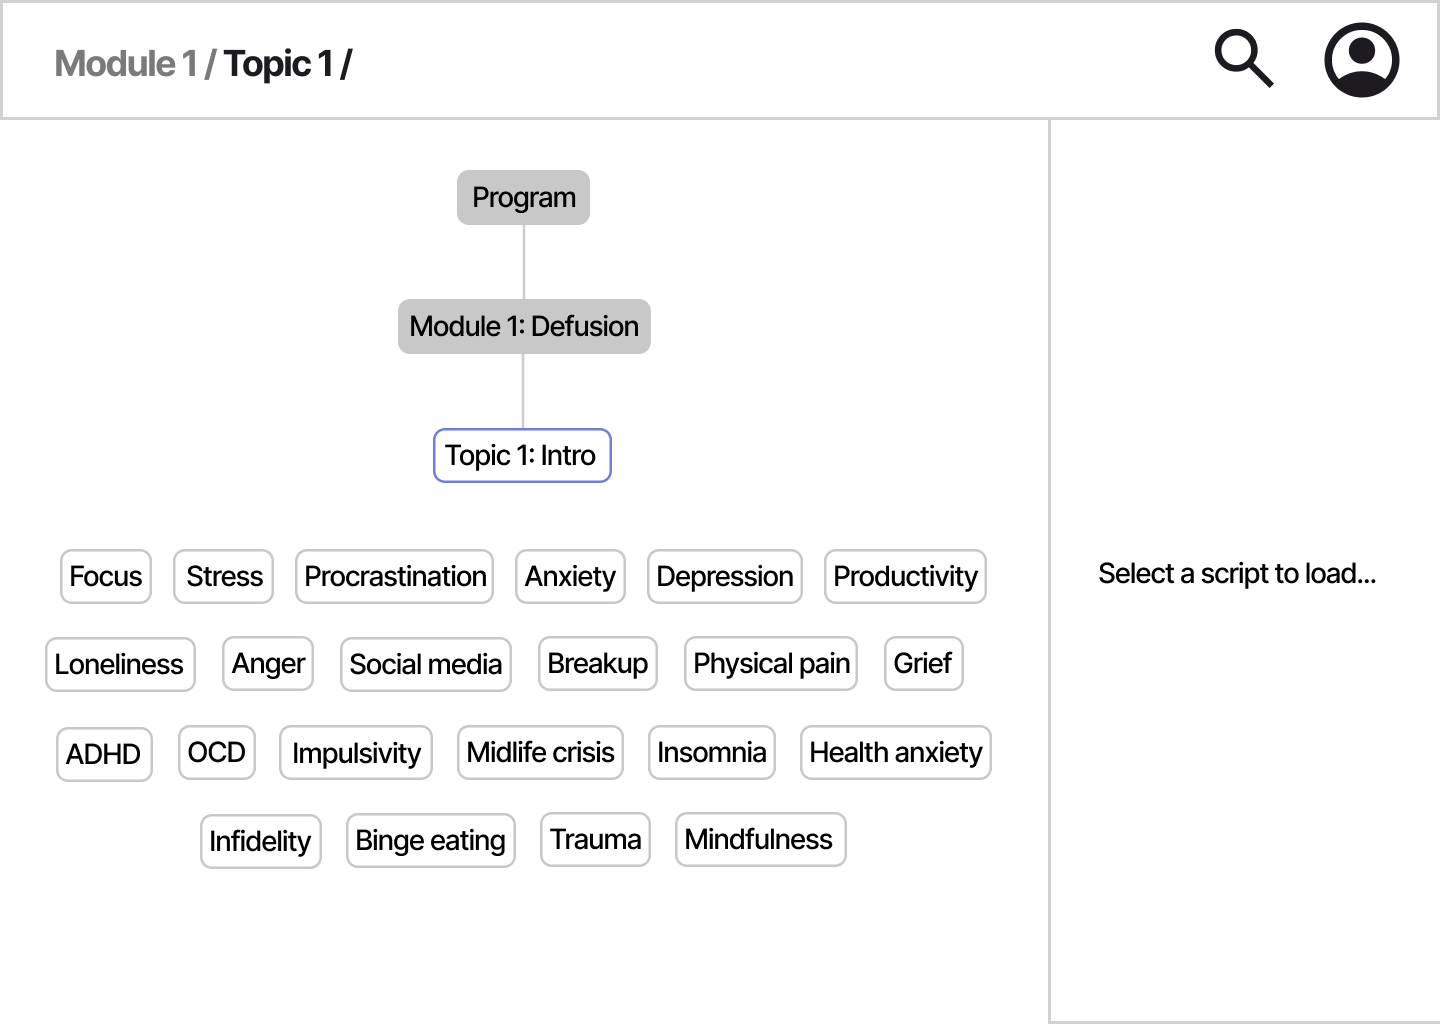
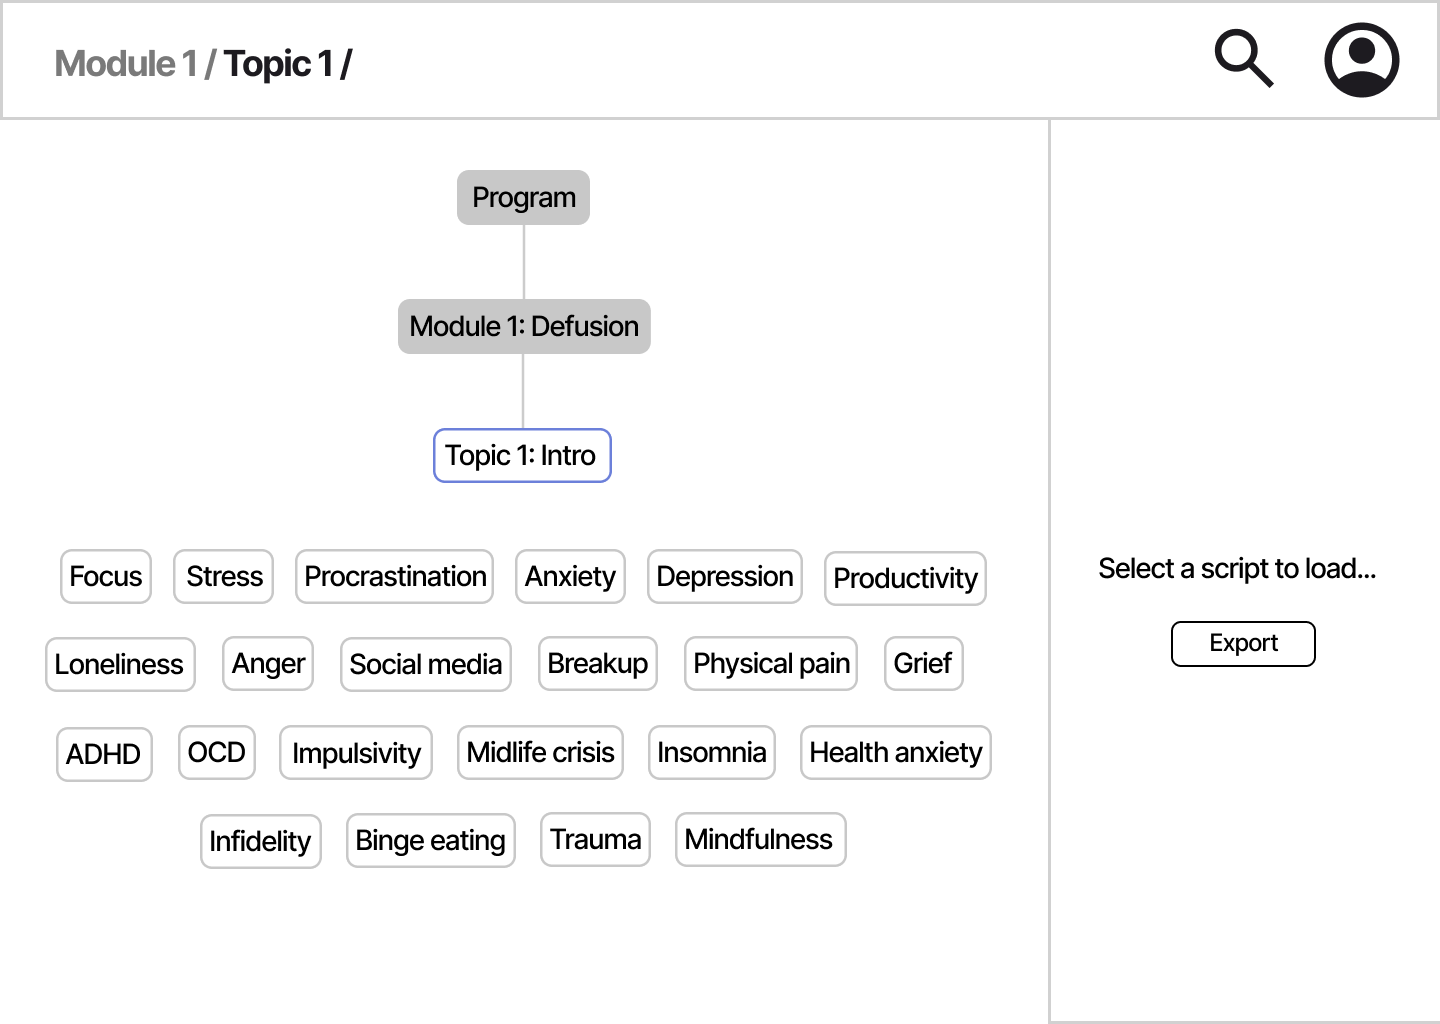
feat: Style LoadView RSP buttons to match Figma
Implements item 2.6.2 (LoadView RSP button styling). Updated apps/frontend/src/pages/LoadView.jsx to apply Figma styles for 'Load script' and 'Export' buttons, including font, border, padding, and flexbox centering. docs/code_lines/user_flow_1_code_lines.md updated lines: 888-940.

Changed region(s): [[0.75, 0.5312, 0.9375, 0.6562], [0.5625, 0.5312, 0.6875, 0.5938]]

diff --git a/apps/frontend/src/pages/LoadView.jsx b/apps/frontend/src/pages/LoadView.jsx
@@ -66,6 +66,23 @@ function LoadView() {
   const graphRef = useRef(null);
 
   /* ------------------------------------------------------------------
+   * Style for the Load and Export buttons in the RSP
+   * ---------------------------------------------------------------- */
+  const buttonStyle = {
+    fontFamily: '"Inter", sans-serif', // Ensure Inter is in quotes
+    fontWeight: 500, // Medium weight for Inter
+    fontSize: '24px',
+    letterSpacing: '-0.05em', // -5% letter spacing
+    color: '#000000',
+    border: '2px solid #000000',
+    padding: '12px',
+    borderRadius: '6px', // Added a slight border radius for aesthetics, can be removed if not desired
+    cursor: 'pointer',
+    backgroundColor: '#FFFFFF', // Assuming a white background, can be transparent
+    textDecoration: 'none', // For the export button if it's an <a> tag
+  };
+
+  /* ------------------------------------------------------------------
    * Fetch the hierarchy exactly once when the component appears.
    * ---------------------------------------------------------------- */
   useEffect(() => {
@@ -247,6 +264,59 @@ function LoadView() {
   function handleLoad() {
     if (!selectedPersonaId) return; // Guard but button is already disabled.
     navigate(`/canvas/${selectedPersonaId}`);
+  }
+
+  /* ------------------------------------------------------------------
+   * When the user presses "Export" (stub for now).
+   * ---------------------------------------------------------------- */
+  function handleExport() {
+    if (!selectedPersonaId) {
+      toast.error('Please select a persona script to export.');
+      return;
+    }
+    // Actual export logic will be:
+    // const { data } = await apiFetch(`/export/${selectedPersonaId}`, { headers: { Authorization: `Bearer ${token}` }});
+    // const blob = new Blob([JSON.stringify(data, null, 2)], { type: 'application/json' });
+    // const url = URL.createObjectURL(blob);
+    // const a = document.createElement('a');
+    // a.href = url;
+    // a.download = `script_${selectedPersonaId}.json`;
+    // document.body.appendChild(a);
+    // a.click();
+    // document.body.removeChild(a);
+    // URL.revokeObjectURL(url);
+    toast.success(`Export for persona ${selectedPersonaId} would start here.`);
+  }
+
+  // Determine what message/content to show in the right-side panel (RSP)
+  // based on what the user has selected in the hierarchy tree.
+  let rspContent = <p>Select a module to begin…</p>;
+  if (selectedModuleId && !selectedTopicId) {
+    rspContent = <p>Select a topic…</p>;
+  } else if (selectedTopicId && !selectedPersonaId) {
+    rspContent = <p>Select a script to load…</p>;
+  } else if (selectedPersonaId) {
+    rspContent = (
+      <div style={{ display: 'flex', flexDirection: 'column', alignItems: 'center', justifyContent: 'center', height: '100%' }}>
+        <div style={{ display: 'flex', flexDirection: 'row', alignItems: 'center', justifyContent: 'center', gap: '14px' }}>
+          <button
+            type="button"
+            onClick={handleLoad}
+            style={buttonStyle}
+          >
+            Load script
+          </button>
+          <button
+            type="button"
+            onClick={handleExport}
+            style={buttonStyle}
+            disabled={!selectedPersonaId} // Disable if no persona is selected
+          >
+            Export
+          </button>
+        </div>
+      </div>
+    );
   }
 
   /* ------------------------------------------------------------------

diff --git a/docs/code_lines/user_flow_1_code_lines.md b/docs/code_lines/user_flow_1_code_lines.md
@@ -977,3 +977,83 @@ Added hidden-span based `measureChipWidth` helper that returns exact rendered wi
 
 885.8 apps/frontend/src/components/HierarchyGraph.jsx
    - Removed tilt diagnostic `useEffect` hook and associated comments now that alignment is fixed.
+
+// --- User Flow 1: 2.6 Front-End --- 
+
+// --- 2.6.1 LoginView --- 
+// ... existing code ...
+
+// --- 2.6.2 LoadView --- 
+// apps/frontend/src/pages/LoadView.jsx, lines 43-59 (new buttonStyle object for RSP buttons)
+/* Style for the Load and Export buttons in the RSP */
+const buttonStyle = {
+  fontFamily: '"Inter", sans-serif', // Ensure Inter is in quotes
+  fontWeight: 500, // Medium weight for Inter
+  fontSize: '24px',
+  letterSpacing: '-0.05em', // -5% letter spacing
+  color: '#000000',
+  border: '2px solid #000000',
+  padding: '12px',
+  borderRadius: '6px', // Added a slight border radius for aesthetics
+  cursor: 'pointer',
+  backgroundColor: '#FFFFFF',
+  textDecoration: 'none',
+};
+
+// apps/frontend/src/pages/LoadView.jsx, lines 262-270 (new handleExport function stub)
+/* When the user presses "Export" (stub for now). */
+function handleExport() {
+  if (!selectedPersonaId) {
+    toast.error('Please select a persona script to export.');
+    return;
+  }
+  toast.success(`Export for persona ${selectedPersonaId} would start here.`);
+}
+
+// apps/frontend/src/pages/LoadView.jsx, lines 272-295 (updated rspContent to include styled and centered Load/Export buttons)
+let rspContent = <p>Select a module to begin…</p>;
+if (selectedModuleId && !selectedTopicId) {
+  rspContent = <p>Select a topic…</p>;
+} else if (selectedTopicId && !selectedPersonaId) {
+  rspContent = <p>Select a script to load…</p>;
+} else if (selectedPersonaId) {
+  rspContent = (
+    <div style={{ display: 'flex', flexDirection: 'column', alignItems: 'center', justifyContent: 'center', height: '100%' }}>
+      <div style={{ display: 'flex', flexDirection: 'row', alignItems: 'center', justifyContent: 'center', gap: '14px' }}>
+        <button
+          type="button"
+          onClick={handleLoad}
+          style={buttonStyle}
+        >
+          Load script
+        </button>
+        <button
+          type="button"
+          onClick={handleExport}
+          style={buttonStyle}
+          disabled={!selectedPersonaId} // Disable if no persona is selected
+        >
+          Export
+        </button>
+      </div>
+    </div>
+  );
+}
+
+// apps/frontend/src/pages/LoadView.jsx, lines 307-315 (updated RSP container div to use flex for centering)
+{/* Right-Side Panel (RSP) */}
+<div style={{
+  width: '33%', // RSP takes 1/3 of the space
+  padding: '20px',
+  borderLeft: '1px solid #E0E0E0', // A light separator
+  display: 'flex',
+  flexDirection: 'column',
+  alignItems: 'center', // Center content horizontally in RSP
+  justifyContent: 'center', // Center content vertically in RSP
+}}>
+  {rspContent}
+</div>
+
+
+// --- 2.6.3 CanvasView --- 
+// ... existing code ...
